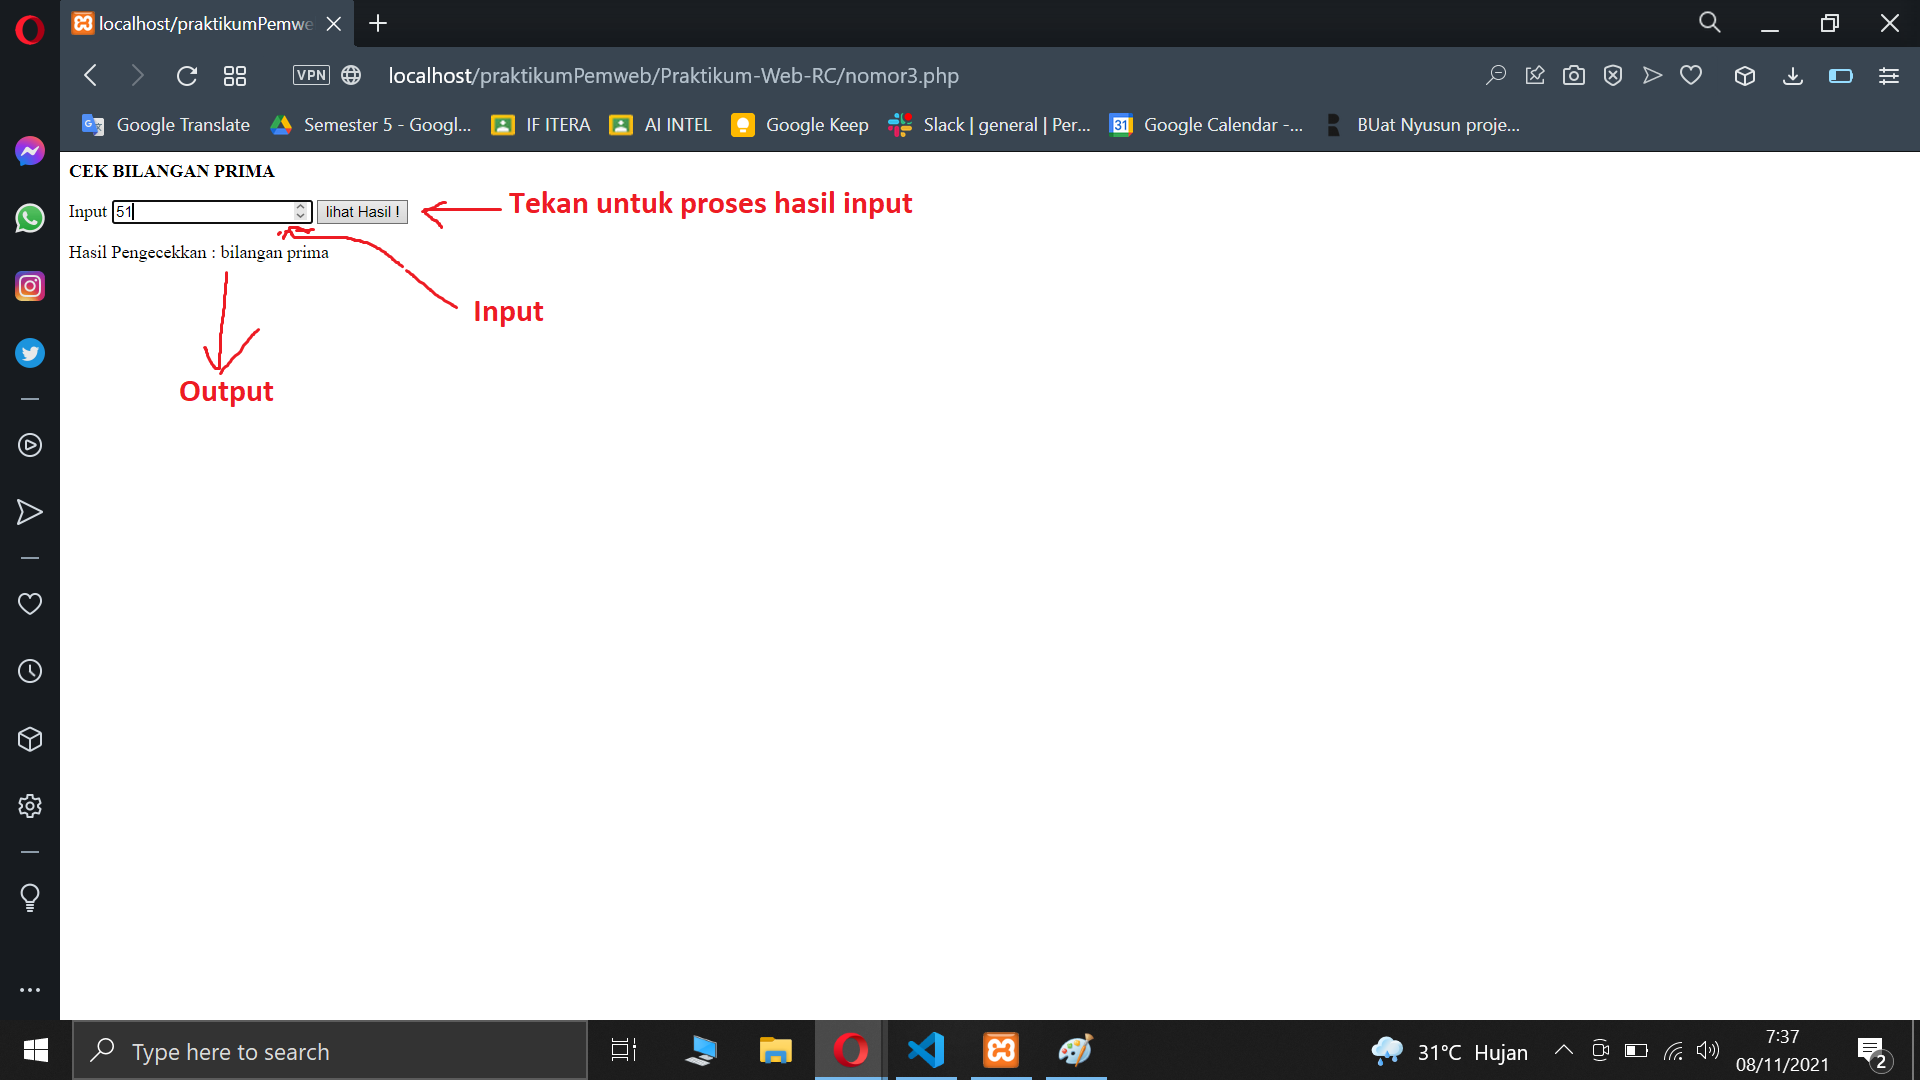
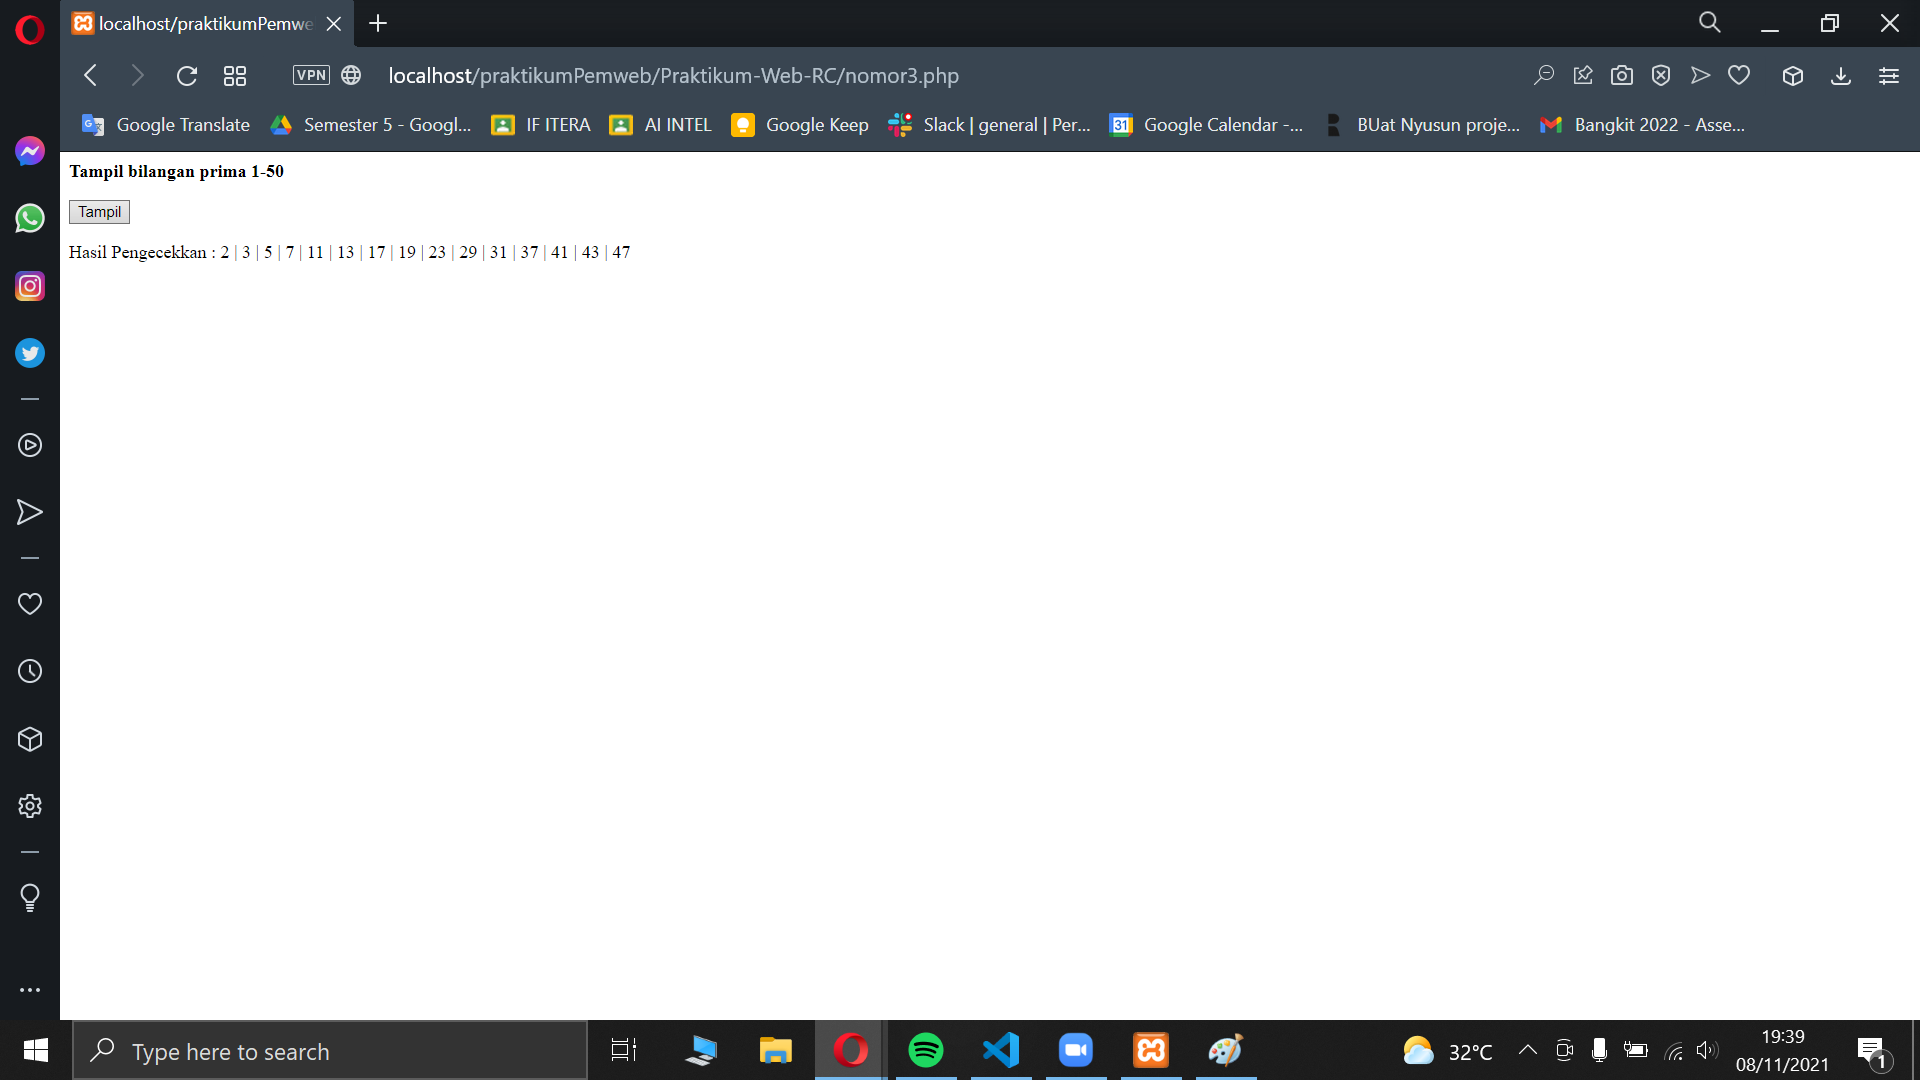
revisi nomor 3 FINAL

diff --git a/nomor3.php b/nomor3.php
@@ -7,47 +7,45 @@
         return $data;
     }
 
-    function primaChecker($input){
-        if($input == 1){
-            return "bukan bilangan prima";
-        }
-        else if($input == 2 || $input==3){
-            return "bilangan prima";
-        }
-        else if($input>2){
-            $param = 2;
-            while($param < sqrt($input)){
-                $param = 2;
-                if($input % $param == 0 ){
-                    return "bukan bilangan prima";
-                    break;
-                }else if($input % $param != 0){
-                    return "bilangan prima";
-                    break;
-                }
-                
-                $param++;
+    function tampilPrima1_50(){
+        $param = 2;
+        while($param < 50){
+            $param1 = 2;
+            if($param == 2 || $param == 3){
+                echo $param." | ";
             }
-        }
-        else if($input <=0 ){
-            return "Harus bilangan positif";
-        }
+            else if($param == 47){
+                echo $param;
+            }
+            else{
+                while($param1<=$param){
+                    if($param1==$param){
+                        echo $param." | ";
+                    }
+                    else if($param1<$param && $param%$param1 == 0){
+                        break;
+                    }  
+                    $param1++;
+                }
+            }
+            $param++;
+        }    
     }
 ?>
 
 <form action="<?php echo htmlspecialchars($_SERVER["PHP_SELF"]);?>" method="post">
-    <p><b>CEK BILANGAN PRIMA <br></b></p>
-    <label for="input">Input</label>
-    <input type="number" name="input" value="<?php echo $input; ?>">
+    <p><b>Tampil bilangan prima 1-50<br></b></p>
+    <!-- <label for="input">Input</label> -->
+    <!-- <input type="number" name="input" value="<?php echo $input; ?>"> -->
 
-    <input type="submit" value="lihat Hasil !">
+    <input type="submit" value="Tampil">
 </form>
 
 <?php 
     if($_SERVER["REQUEST_METHOD"] == "POST"){
-        $input = test_input($_POST["input"]); 
-        $cek = primaChecker($input);
-        echo "Hasil Pengecekkan : $cek";
+        // $input = test_input($_POST["input"]); 
+        echo "Hasil Pengecekkan : ";
+        tampilPrima1_50();
         
     }
 ?>
